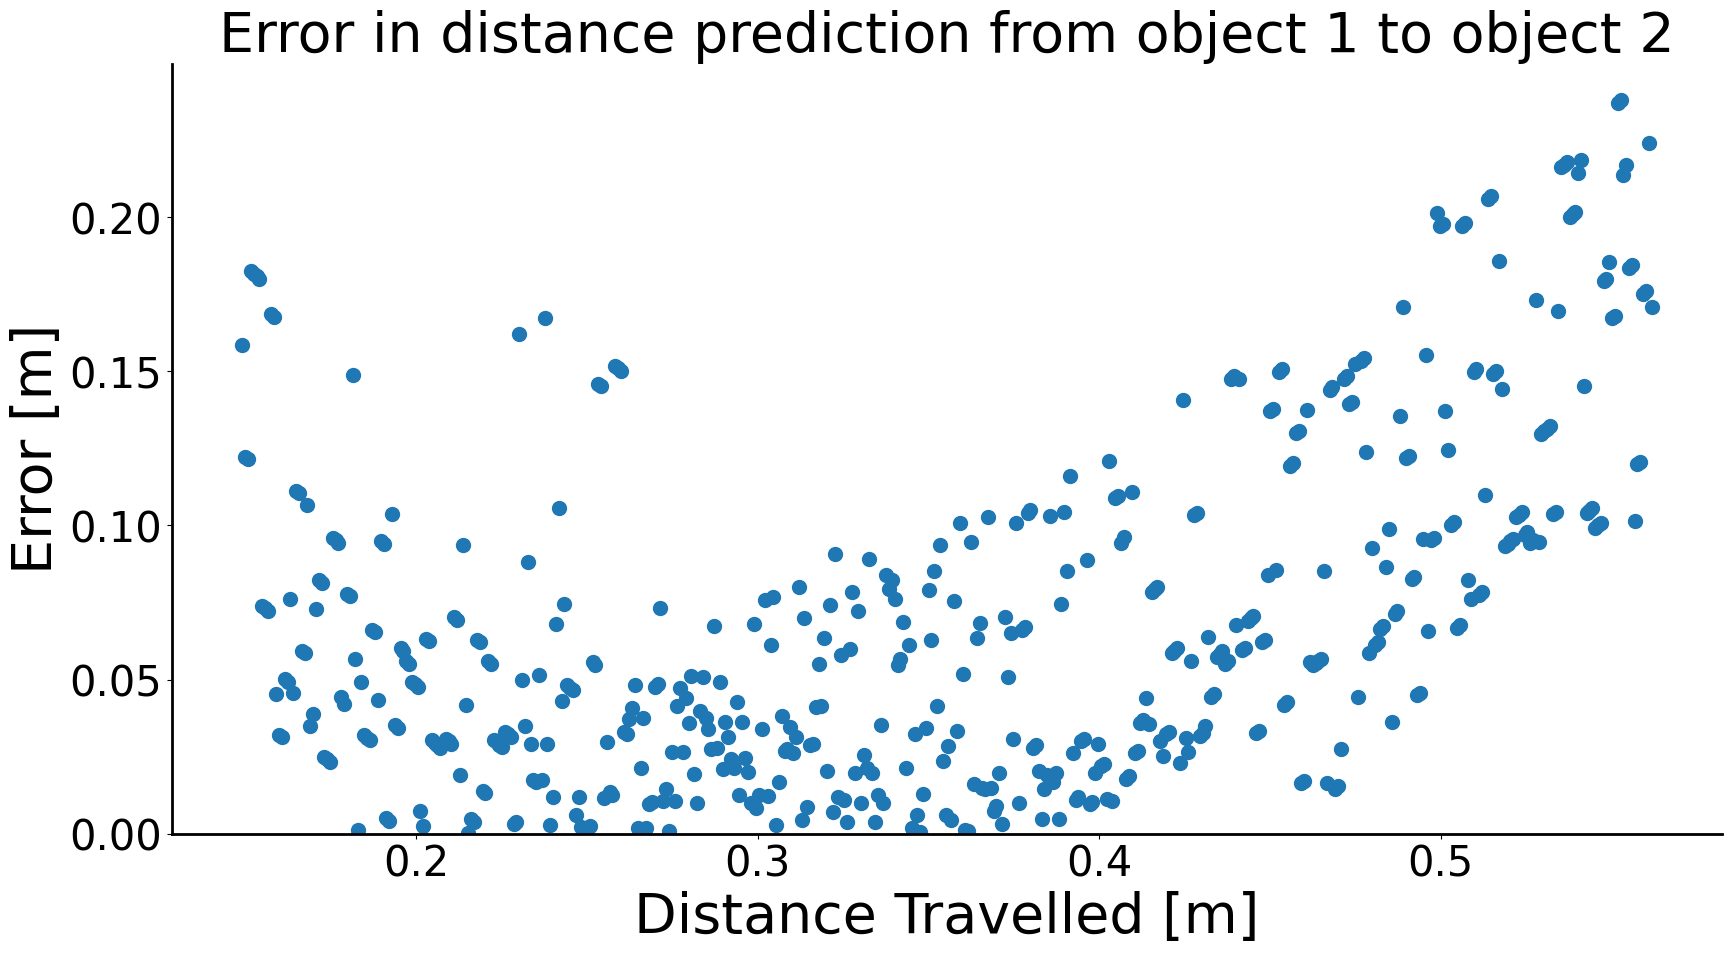
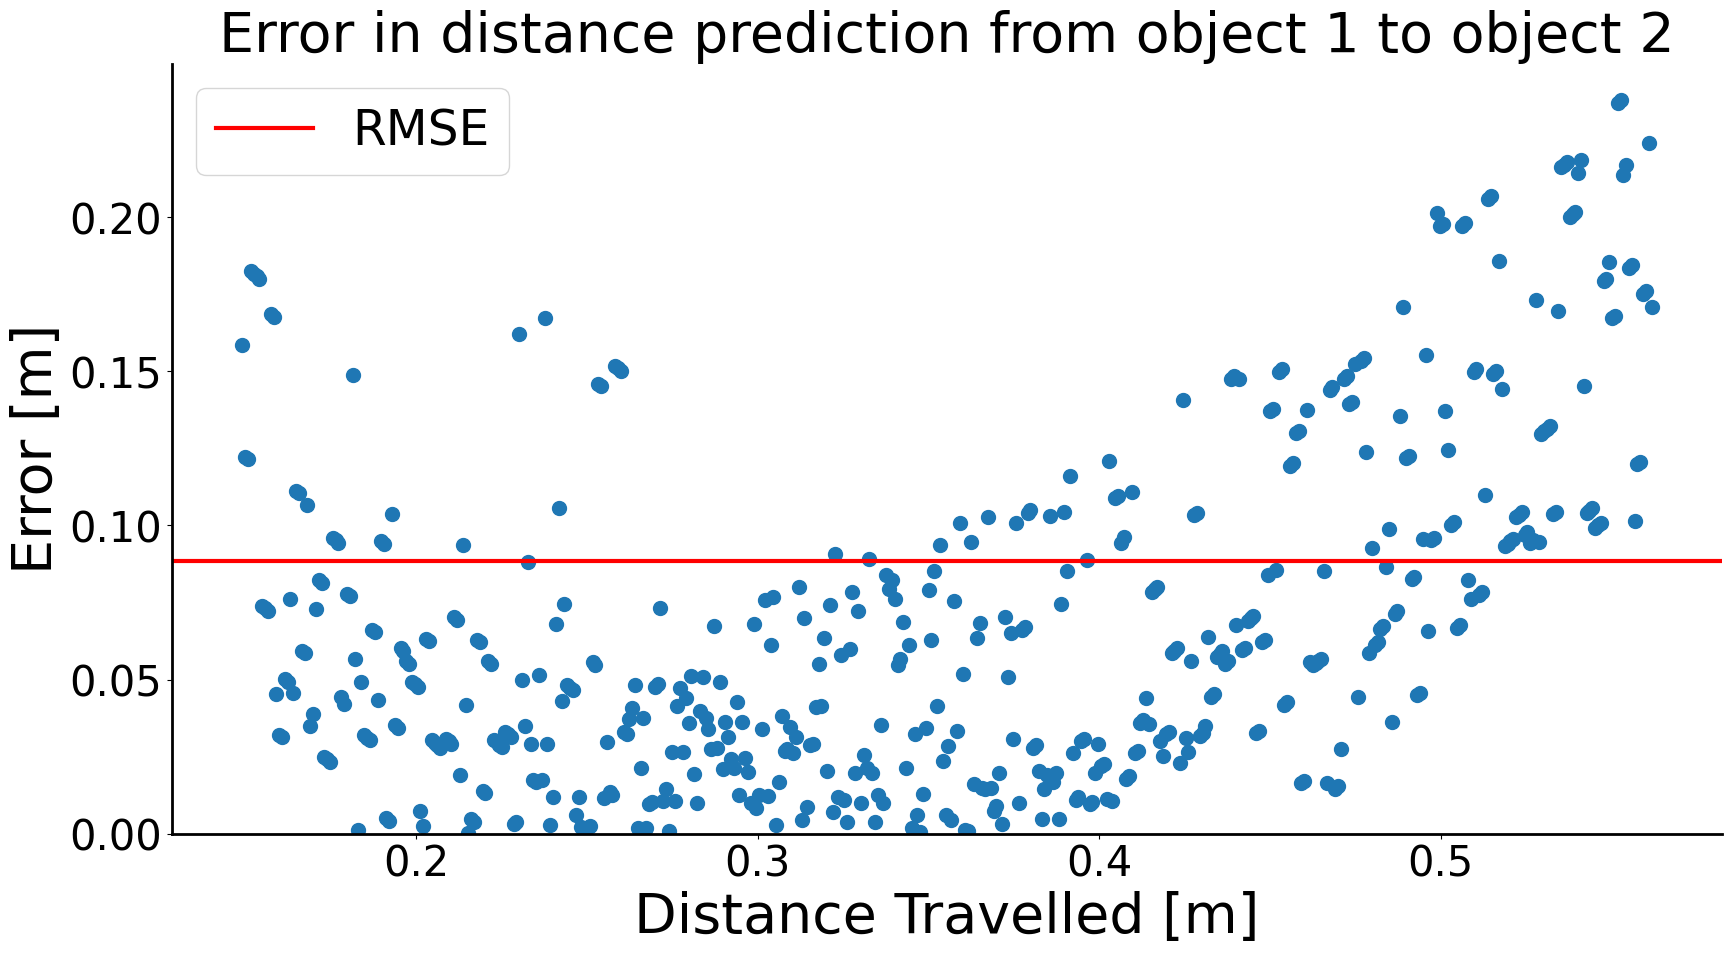
added RMSE to plots

Changed region(s): [[0.0935, 0.577, 0.9977, 0.6073], [0.1247, 0.0911, 0.2806, 0.1518]]

diff --git a/python/gmm_analysis.py b/python/gmm_analysis.py
@@ -334,23 +334,33 @@ def compare_distance_predictions_of_models(agnosticism='robot', n_predictions=50
     print(f"Using {len(idx_to_use_1_to_2)}/{len(X_test_1)} datapoints with 1 to 2")
     print(f"Using {len(idx_to_use_2_to_1)}/{len(X_test_2)} datapoints with 2 to 1 \n")
 
-    ## TOTAL ERROR
+    ## TOTAL ERROR - RMSE MSE 
     ## Compare prediction of gmm1 with actual data from gmm 2
-    rms_error_1_to_2 = np.sqrt(np.mean((real_distances_from_d2[:] - X_test_1[idx_to_use_1_to_2])**2))
-    rms_error_2_to_1 = np.sqrt(np.mean((real_distances_from_d1[:] - X_test_2[idx_to_use_2_to_1])**2))
-    rms_error_relative_1_to_2 = np.sqrt(np.mean(((real_distances_from_d2[:] - X_test_1[idx_to_use_1_to_2])/X_test_1[idx_to_use_1_to_2])**2)) * 100
-    rms_error_relative_2_to_1 = np.sqrt(np.mean(((real_distances_from_d1[:] - X_test_2[idx_to_use_2_to_1])/X_test_2[idx_to_use_2_to_1])**2)) * 100
-  
-    print(f"Total RMS Error GMM 1 to GMM2: {rms_error_1_to_2*100:.2f} cm")
-    print(f"Total RMS Error GMM 2 to GMM1: {rms_error_2_to_1*100:.2f} cm \n")
+    ms_error_1_to_2 = np.mean((real_distances_from_d2 - X_test_1[idx_to_use_1_to_2])**2)
+    ms_error_2_to_1 = np.mean((real_distances_from_d1 - X_test_2[idx_to_use_2_to_1])**2)
+    rms_error_1_to_2 = np.sqrt(np.mean((real_distances_from_d2 - X_test_1[idx_to_use_1_to_2])**2))
+    rms_error_2_to_1 = np.sqrt(np.mean((real_distances_from_d1 - X_test_2[idx_to_use_2_to_1])**2))
+    ms_error_relative_1_to_2 = np.mean(((real_distances_from_d2 - X_test_1[idx_to_use_1_to_2])/X_test_1[idx_to_use_1_to_2])**2) * 100
+    ms_error_relative_2_to_1 = np.mean(((real_distances_from_d1 - X_test_2[idx_to_use_2_to_1])/X_test_2[idx_to_use_2_to_1])**2) * 100
+    rms_error_relative_1_to_2 = np.sqrt(np.mean(((real_distances_from_d2 - X_test_1[idx_to_use_1_to_2])/X_test_1[idx_to_use_1_to_2])**2)) * 100
+    rms_error_relative_2_to_1 = np.sqrt(np.mean(((real_distances_from_d1 - X_test_2[idx_to_use_2_to_1])/X_test_2[idx_to_use_2_to_1])**2)) * 100
+    
+    print(f"MSE GMM 1 to GMM2: {ms_error_1_to_2*100:.2f} cm")
+    print(f"MSE GMM 2 to GMM1: {ms_error_2_to_1*100:.2f} cm")
+    print(f"RMSE GMM 1 to GMM2: {rms_error_1_to_2*100:.2f} cm")
+    print(f"RMSE GMM 2 to GMM1: {rms_error_2_to_1*100:.2f} cm \n")
 
-    print(f"Total RMS Error Relative GMM 1 to GMM2: {rms_error_relative_1_to_2:.2f} % ")
-    print(f"Total RMS Error Relative GMM 2 to GMM1: {rms_error_relative_2_to_1:.2f} % \n")
+    print(f"Relative MSE GMM 1 to GMM2: {ms_error_relative_1_to_2:.2f} % ")
+    print(f"Relative MSE GMM 2 to GMM1: {ms_error_relative_2_to_1:.2f} % ")
+    print(f"Relative RMSE GMM 1 to GMM2: {rms_error_relative_1_to_2:.2f} % ")
+    print(f"Relative RMSE GMM 2 to GMM1: {rms_error_relative_2_to_1:.2f} % \n")
 
     ## Plots
     ### ERROR PREDICTING GMM 1 and matching to GMM 2
     plt.figure(figsize=(20, 10))
-    plt.scatter(X_test_1[idx_to_use_1_to_2], error_1_to_2, s=100, label='Predict 1 to 2')
+    plt.scatter(X_test_1[idx_to_use_1_to_2], error_1_to_2, s=100)#, label='Predict 1 to 2')
+    plt.axhline(y=rms_error_1_to_2, color='r', linewidth=3, label='RMSE')
+    # plt.axhline(y=ms_error_1_to_2, color='b', linewidth=3, label='MSE')
     plt.xlabel("Distance Travelled [m]", fontsize=GLOBAL_FONTSIZE)   
     plt.ylabel("Error [m]", fontsize=GLOBAL_FONTSIZE) 
     # plt.axis('equal')
@@ -358,14 +368,18 @@ def compare_distance_predictions_of_models(agnosticism='robot', n_predictions=50
 
     ### RELATIVE ERROR PREDICTING GMM 1 and matching to GMM 2
     plt.figure(figsize=(20, 10))
-    plt.scatter(X_test_1[idx_to_use_1_to_2], rel_error_1_to_2, s=100, label='Predict 1 to 2')
+    plt.scatter(X_test_1[idx_to_use_1_to_2], rel_error_1_to_2, s=100)#, label='Predict 1 to 2')
+    plt.axhline(y=rms_error_relative_1_to_2, color='r', linewidth=3, label='RMSE')
+    # plt.axhline(y=ms_error_relative_1_to_2, color='b', linewidth=3, label='MSE')
     plt.xlabel("Distance Travelled [m]", fontsize=GLOBAL_FONTSIZE)   
     plt.ylabel("Relative Error [%]", fontsize=GLOBAL_FONTSIZE) 
     plt.title(f'Relative Error in distance prediction from {agnosticism} 1 to {agnosticism} 2', fontsize=GLOBAL_FONTSIZE)
 
     ### ERROR PREDICTING GMM 2 and matching to GMM 1
     plt.figure(figsize=(20, 10))
-    plt.scatter(X_test_2[idx_to_use_2_to_1], error_2_to_1, s=100, label='Predict 2 to 1')
+    plt.scatter(X_test_2[idx_to_use_2_to_1], error_2_to_1, s=100)#, label='Predict 2 to 1')
+    plt.axhline(y=rms_error_2_to_1, color='r', linewidth=3, label='RMSE')
+    # plt.axhline(y=ms_error_2_to_1, color='b', linewidth=3, label='MSE')
     plt.xlabel("Distance Travelled [m]", fontsize=GLOBAL_FONTSIZE)   
     plt.ylabel("Error [m]", fontsize=GLOBAL_FONTSIZE) 
     plt.axis('equal')
@@ -373,7 +387,9 @@ def compare_distance_predictions_of_models(agnosticism='robot', n_predictions=50
 
     ### RELATIVE ERROR PREDICTING GMM 1 and matching to GMM 2
     plt.figure(figsize=(20, 10))
-    plt.scatter(X_test_2[idx_to_use_2_to_1], rel_error_2_to_1, s=100, label='Predict 2 to 1')
+    plt.scatter(X_test_2[idx_to_use_2_to_1], rel_error_2_to_1, s=100)#, label='Predict 2 to 1')
+    plt.axhline(y=rms_error_relative_2_to_1, color='r', linewidth=3, label='RMSE')
+    # plt.axhline(y=ms_error_relative_2_to_1, color='b', linewidth=3, label='MSE')
     plt.xlabel("Distance Travelled [m]", fontsize=GLOBAL_FONTSIZE)   
     plt.ylabel("Relative Error [%]", fontsize=GLOBAL_FONTSIZE) 
     plt.title(f'Relative Error in distance prediction from {agnosticism} 2 to {agnosticism} 1', fontsize=GLOBAL_FONTSIZE)
@@ -387,6 +403,7 @@ def compare_distance_predictions_of_models(agnosticism='robot', n_predictions=50
         plt.gca().spines['bottom'].set_linewidth(2)
         plt.gca().tick_params(axis='both', which='major', labelsize=AXIS_TICK_FONTSIZE) 
         plt.gca().set_ylim(bottom=0)
+        plt.legend(fontsize=GLOBAL_FONTSIZE-5)
 
     # Save and shwo plot if desired
     if save_fig : 
